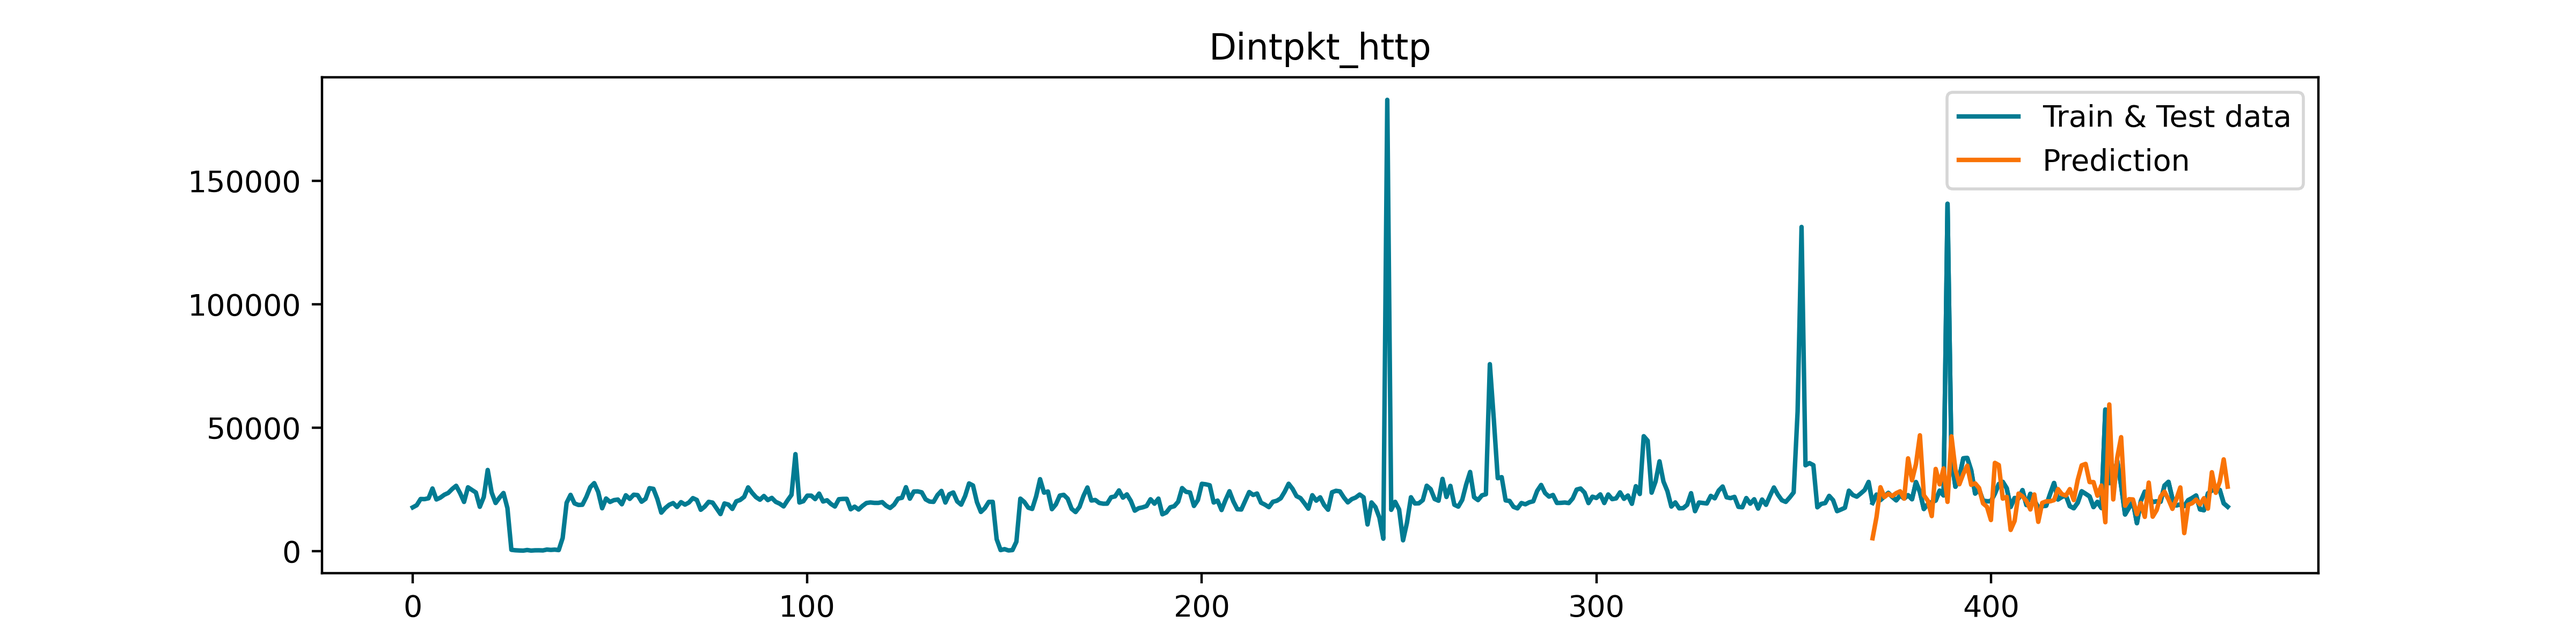
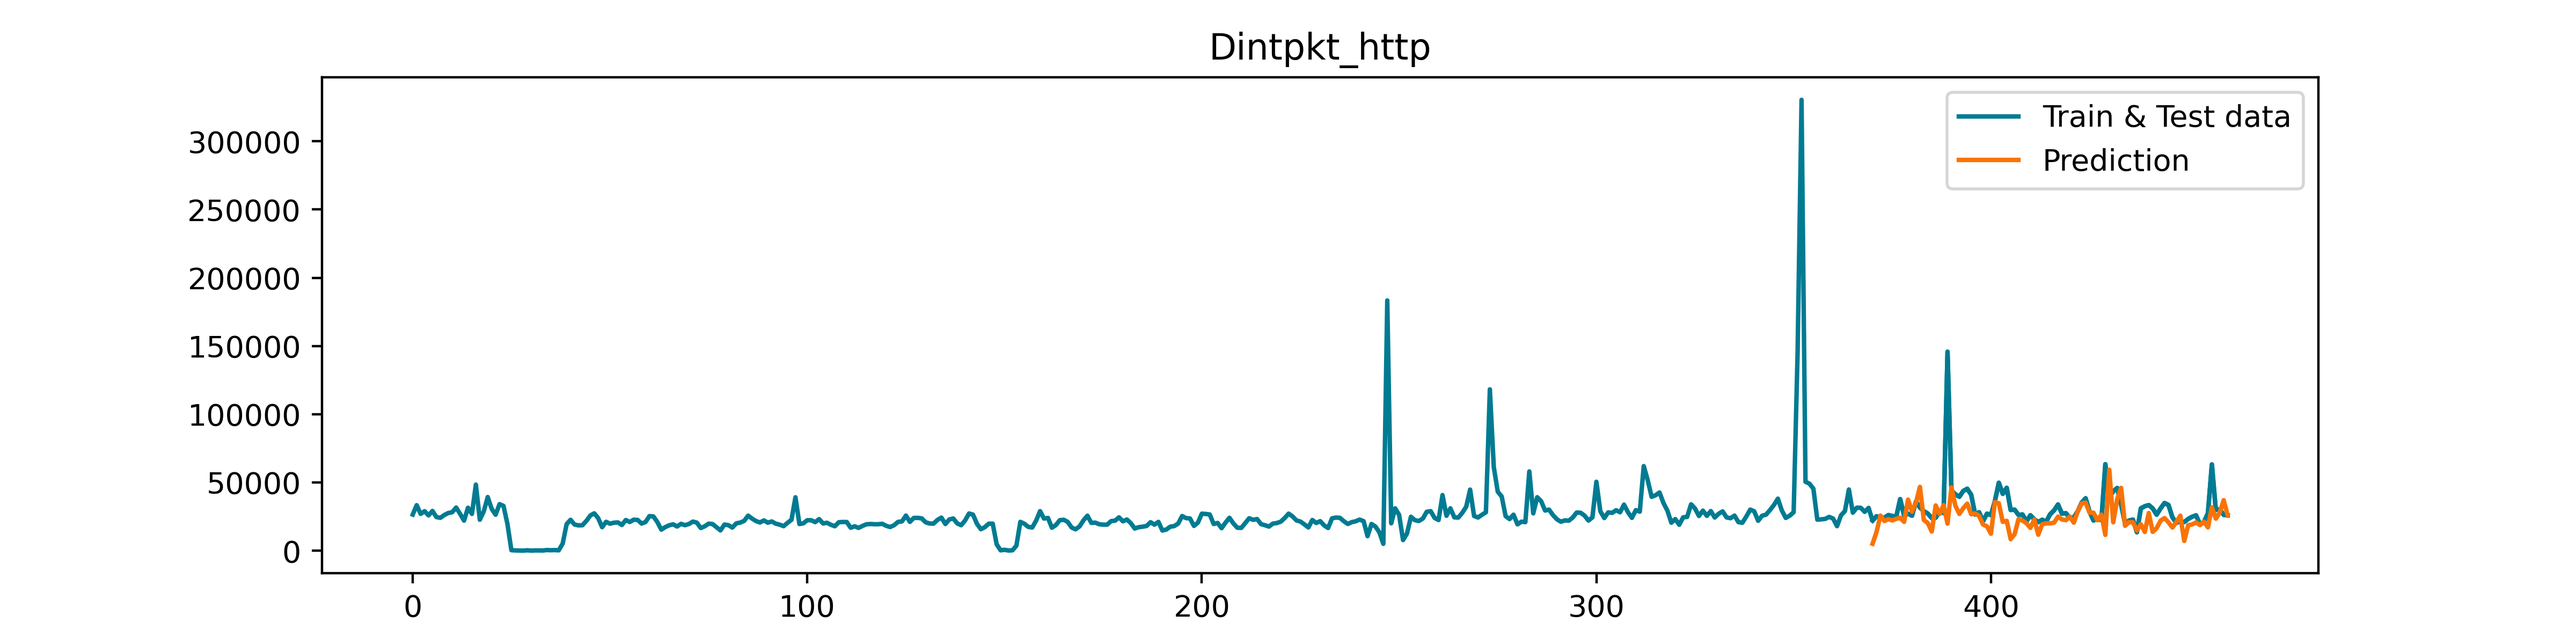
plots predictions against data with attacks

diff --git a/src/models/predict_model.py b/src/models/predict_model.py
@@ -1,6 +1,5 @@
 from keras.models import load_model
 from sklearn.metrics import mean_squared_error, mean_absolute_percentage_error
-from os import path, remove
 
 import sys
 import math
@@ -38,6 +37,9 @@ def predict(
     train_real = get_y_from_generator(ts_handler.train_generator, ts_handler.n_features)
     test_real = get_y_from_generator(ts_handler.test_generator, ts_handler.n_features)
 
+    attack_train_data = get_y_from_generator(ts_handler.attack_train, ts_handler.n_features)
+    attack_test_data = get_y_from_generator(ts_handler.attack_test, ts_handler.n_features)
+
     calculate_metrics(
         train_real, 
         test_real, 
@@ -47,9 +49,12 @@ def predict(
         model_number
     )
 
+    train_data = inverse_transform(train_real, ts_handler)  # replace with this if want to plot against train data
+    test_data = inverse_transform(test_real, ts_handler)
+
     save_prediction_plots(
-        inverse_transform(train_real, ts_handler), 
-        inverse_transform(test_real, ts_handler), 
+        attack_train_data, 
+        attack_test_data,
         inverse_transform(test_predict, ts_handler), 
         ts_handler.features, 
         ts_handler.n_features,
@@ -72,20 +77,20 @@ def calculate_metrics(train_real, test_real, train_predict, test_predict, extrac
             f.write('RMSE test score:  %.2f\n\n' % rmse_test_score)
 
 
-def save_prediction_plots(train_y, y, y_hat, extracted_features, n_features, model_number):
-    begin = len(train_y)                  # beginning is where train data ends
-    end = begin + len(y_hat)              # end is where predicted data ends
+def save_prediction_plots(train_data, test_data, prediction_data, extracted_features, n_features, model_number):
+    begin = len(train_data)                         # beginning is where train data ends
+    end = begin + len(test_data)                    # end is where predicted data ends
 
-    data = np.append(train_y, y)          # whole dataset
+    data = np.append(train_data, test_data)          # whole dataset
     data = data.reshape(-1, n_features)
 
-    y_plot = np.empty_like(data)          # create empty np array with shape like given array
-    y_plot[:, :] = np.nan                 # fill it with nan
-    y_plot[begin:end, :] = y              # insert real values
+    y_plot = np.empty_like(data)                    # create empty np array with shape like given array
+    y_plot[:, :] = np.nan                           # fill it with nan
+    y_plot[begin:end, :] = test_data                # insert real values
 
     y_hat_plot = np.empty_like(data)
-    y_hat_plot[:, :] = np.nan             # first : stands for first and the second : for the second dimension
-    y_hat_plot[begin:end, :] = y_hat      # insert predicted values
+    y_hat_plot[:, :] = np.nan                       # first : stands for first and the second : for the second dimension
+    y_hat_plot[begin:end, :] = prediction_data      # insert predicted values
 
     for i in range(n_features): 
         train_column = [item[i] for item in data]

diff --git a/src/data/handle_time_series.py b/src/data/handle_time_series.py
@@ -10,9 +10,10 @@ from sklearn.preprocessing import MinMaxScaler, StandardScaler
 from statsmodels.tsa.seasonal import STL
 
 class TimeseriesHandler:
-    def __init__(self, use_real_data, window_size):
+    def __init__(self, use_real_data, window_size, data_split):
         self.minmax_scaler = MinMaxScaler(feature_range=(0, 1))
         self.stand_scaler = StandardScaler()
+        self.data_split = data_split
 
         if use_real_data:
             self.df = pd.read_csv(const.REAL_DATASET, sep='\t', usecols=const.REAL_DATASET_FEATURES)
@@ -20,10 +21,11 @@ class TimeseriesHandler:
         else:
             self.df = pd.read_csv(const.EXTRACTED_BENIGN_DATASET_PATH.format(window_size))
             self.attack_df = pd.read_csv(const.EXTRACTED_ATTACK_DATASET_PATH.format(window_size))
+            self.attack_df = self.attack_df.to_numpy()
 
         self.features = self.df.columns.tolist()
-        self.n_features = len(self.features)
         self.df = self.df.to_numpy()
+        self.n_features = len(self.features)
 
 
     def normalize_data(self):
@@ -34,13 +36,13 @@ class TimeseriesHandler:
         self.df = self.stand_scaler.fit_transform(self.df)
 
 
-    def split_dataset(self, percent):
-        train_size = int(len(self.df) * percent)
-        train, test = self.df[0:train_size], self.df[train_size:len(self.df)]
+    def split_dataset(self, df):
+        train_size = int(len(df) * self.data_split)
+        train, test = df[:train_size], df[train_size:]
         return train, test
 
 
-    def generate_time_series(self, n_input, stl_decompose, percent_split=0.8):
+    def generate_time_series(self, n_input, stl_decompose):
         if stl_decompose:
             df_trend = pd.DataFrame()
             for feature in self.df.columns:
@@ -50,10 +52,15 @@ class TimeseriesHandler:
         
         self.normalize_data()
         self.scale_data()
-        train, test = self.split_dataset(percent_split)
+
+        train, test = self.split_dataset(self.df)
+        attack_train, attack_test = self.split_dataset(self.attack_df)
 
         self.train_generator = tf.keras.preprocessing.sequence.TimeseriesGenerator(train, train, length=n_input, batch_size=1)
         self.test_generator = tf.keras.preprocessing.sequence.TimeseriesGenerator(test, test, length=n_input, batch_size=1)
+        
+        self.attack_train = tf.keras.preprocessing.sequence.TimeseriesGenerator(attack_train, attack_train, length=n_input, batch_size=1)
+        self.attack_test = tf.keras.preprocessing.sequence.TimeseriesGenerator(attack_test, attack_test, length=n_input, batch_size=1)
 
 
 def create_extracted_dataset(window_size, with_attacks):

diff --git a/src/main.py b/src/main.py
@@ -50,8 +50,8 @@ performs training on a specified neural network and saves trained model
 :param stl_decomposition: boolean specifying if STL decomposition should be applied on dataset
 """
 
-ts_handler = TimeseriesHandler(conf.use_real_data, conf.window_size)
-ts_handler.generate_time_series(conf.n_steps, stl_decompose=conf.stl_decomposition)
+ts_handler = TimeseriesHandler(conf.use_real_data, conf.window_size, conf.dataset_split)
+ts_handler.generate_time_series(n_input=conf.n_steps, stl_decompose=conf.stl_decomposition)
 
 """
 train(

diff --git a/src/config.py b/src/config.py
@@ -2,6 +2,7 @@ window_size = 180.0
 n_steps = 2
 patience = 10
 epochs = 300
+dataset_split = 0.8
 learning_rate = 0.001
 dropout_rate = 0.3
 blocks = 12
